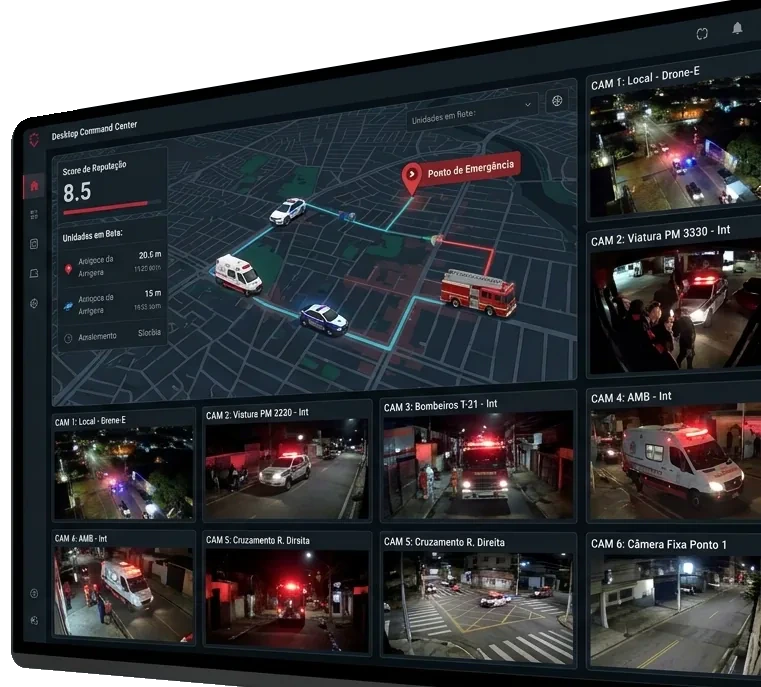
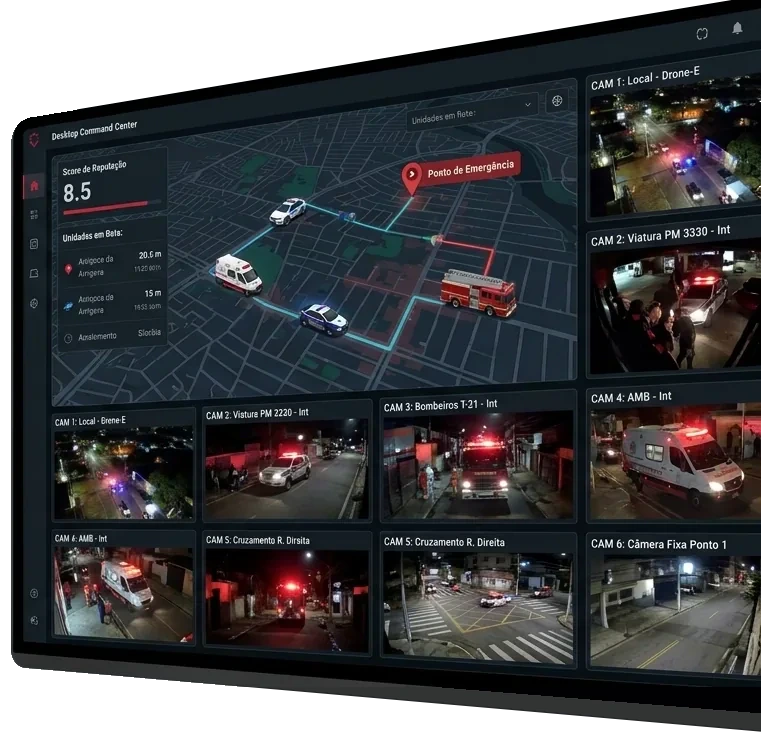
Completa a moldura de baixo do monitor na imagem do painel tático

diff --git a/index.html b/index.html
@@ -243,7 +243,7 @@
           </div>
 
           <div class="caixa-imagem-painel">
-            <img src="imagens/painel-tatico-suave.webp" loading="lazy" width="761" height="687" alt="Painel tático da central de emergências do Vigência">
+            <img src="imagens/painel-tatico-suave.webp" loading="lazy" width="761" height="733" alt="Painel tático da central de emergências do Vigência">
           </div>
         </div>
       </div>
